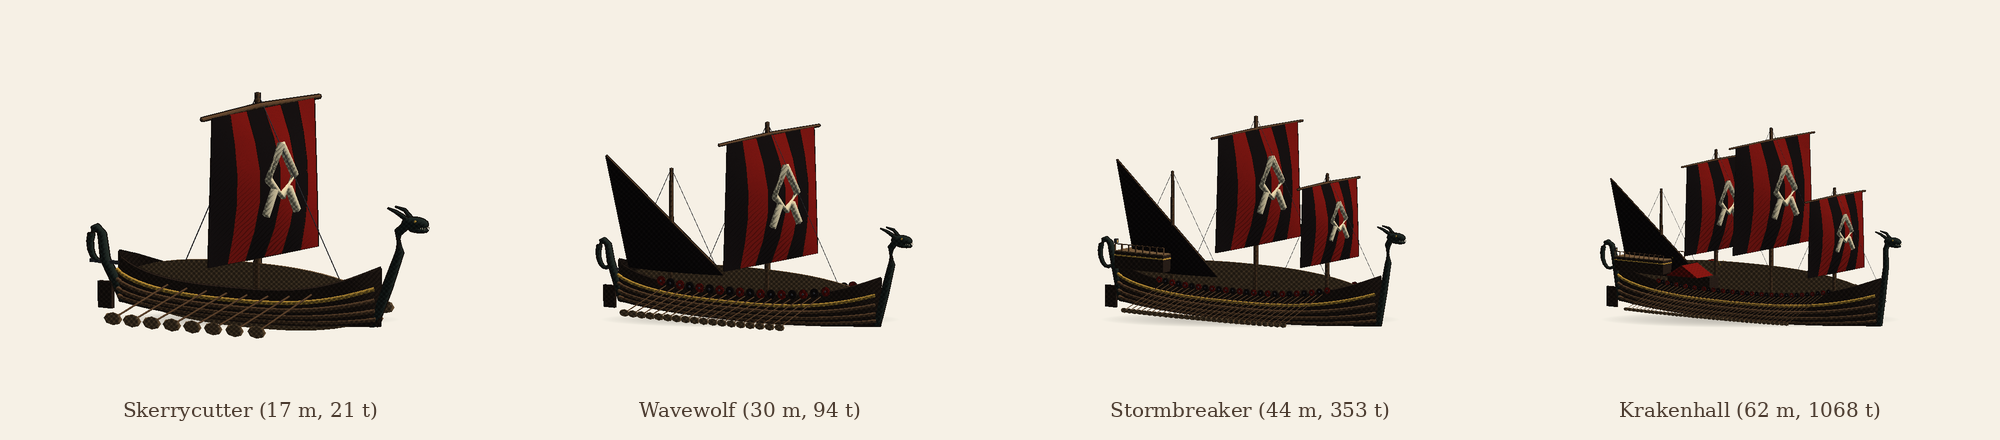
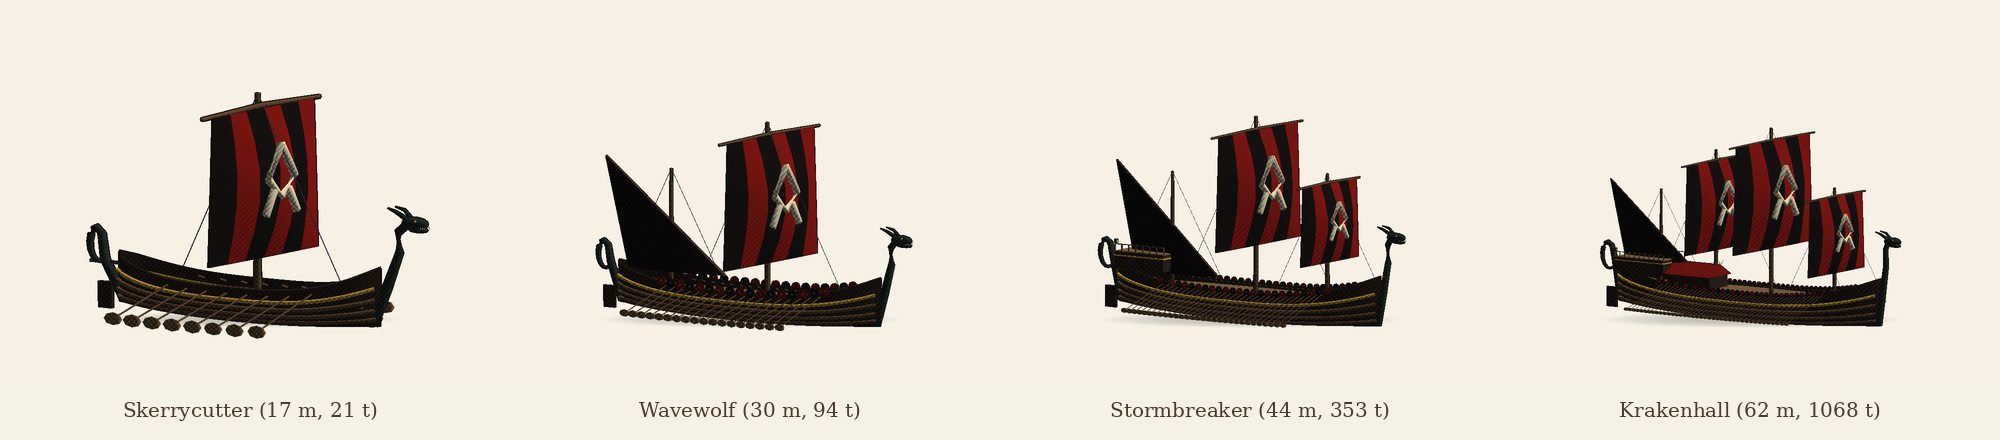
Buildings of the north, and a buildings sheet (docs/buildings.png)
Longhouses with bowed walls and turf roofs, a 48 m great hall with shingles,
crossed dragon-head gables and gilded door posts, a stone-walled boathouse,
a storehouse on stilts, a watchtower with a signal basket, a palisade of
sharpened stakes, a jetty on piles and a small stone church for the
monasteries, all at real sizes.

Also fixes the ships' deck and deck-hall roof, which were extruded the wrong
way round (Extrude lays its outline in the z-y plane).

Claude-Session: https://claude.ai/code/session_01SCdejJ1UF8RUxAkkFhZXGU

diff --git a/OdinsCoin/Assets/Scripts/World/Buildings.cs b/OdinsCoin/Assets/Scripts/World/Buildings.cs
@@ -1,0 +1,219 @@
+using UnityEngine;
+
+namespace OdinsCoin
+{
+    /// <summary>The kinds of building a place is made of.</summary>
+    public enum BuildingKind { Longhouse, GreatHall, Boathouse, Storehouse, Watchtower, Palisade, Jetty, Church }
+
+    /// <summary>The colours of the north's buildings: tarred timber, turf and shingle roofs, carved gables.</summary>
+    public class BuildingLook
+    {
+        public Color wall = new Color(0.36f, 0.25f, 0.17f);
+        public Color timber = new Color(0.25f, 0.17f, 0.11f);
+        public Color turf = new Color(0.38f, 0.48f, 0.25f);
+        public Color shingle = new Color(0.3f, 0.2f, 0.15f);
+        public Color stone = new Color(0.5f, 0.5f, 0.48f);
+        public Color door = new Color(0.55f, 0.18f, 0.1f);
+        public Color gold = new Color(0.85f, 0.65f, 0.25f);
+        public Color plaster = new Color(0.85f, 0.82f, 0.74f);
+    }
+
+    /// <summary>
+    /// (Profiles are drawn as x across, y up and extruded along z: <see cref="MeshData.Extrude"/> lays its outline in
+    /// the z–y plane, so each is turned a quarter round.)
+    /// Builds the north's buildings in the storybook style, as plain mesh data (one joint, "Building"; x across,
+    /// z along, y up, ground at 0): longhouses with bowed walls and turf roofs, a jarl's great hall with dragon
+    /// gables, boathouses, storehouses on stilts, watchtowers, palisades, jetties, and a little stone church for
+    /// the monasteries. Sizes are real (a longhouse is ~25 m, a great hall ~50 m).
+    /// </summary>
+    public static class Buildings
+    {
+        public const string Joint = "Building";
+
+        public static VikingModel Build(BuildingKind kind, BuildingLook look, int seed = 0)
+        {
+            var m = new VikingModel();
+            m.AddJoint(Joint, null, Vector3.zero);
+            switch (kind)
+            {
+                case BuildingKind.Longhouse: Longhouse(m, look, 24f, 6.5f, false); break;
+                case BuildingKind.GreatHall: Longhouse(m, look, 48f, 11f, true); break;
+                case BuildingKind.Boathouse: Boathouse(m, look); break;
+                case BuildingKind.Storehouse: Storehouse(m, look); break;
+                case BuildingKind.Watchtower: Watchtower(m, look); break;
+                case BuildingKind.Palisade: Palisade(m, look, 20f, seed); break;
+                case BuildingKind.Jetty: Jetty(m, look, 40f); break;
+                case BuildingKind.Church: Church(m, look); break;
+            }
+            m.AddOutlines(0.06f, new Color(0.08f, 0.06f, 0.05f));
+            return m;
+        }
+
+        /// <summary>How far a building reaches (half-size x, height, half-size z), for laying out a place.</summary>
+        public static Vector3 Footprint(BuildingKind kind)
+        {
+            switch (kind)
+            {
+                case BuildingKind.Longhouse: return new Vector3(4f, 7f, 13f);
+                case BuildingKind.GreatHall: return new Vector3(6.5f, 12f, 25f);
+                case BuildingKind.Boathouse: return new Vector3(4.5f, 6f, 11f);
+                case BuildingKind.Storehouse: return new Vector3(2.5f, 5.5f, 2.5f);
+                case BuildingKind.Watchtower: return new Vector3(2.5f, 14f, 2.5f);
+                case BuildingKind.Palisade: return new Vector3(1f, 4f, 10f);
+                case BuildingKind.Jetty: return new Vector3(2.5f, 1.5f, 20f);
+                default: return new Vector3(4f, 10f, 7f);
+            }
+        }
+
+        /// <summary>
+        /// A longhouse: walls bowed out amidships like a boat's sides, a steep roof of turf (or shingle, on a hall)
+        /// that nearly reaches the ground, a door at each end; the great hall gets crossed dragon heads on its gables.
+        /// </summary>
+        static void Longhouse(VikingModel m, BuildingLook look, float length, float width, bool hall)
+        {
+            const int n = 12;
+            float wallH = hall ? 3.4f : 2.2f, roofH = width * (hall ? 0.75f : 0.65f);
+            // Bowed walls: a lathe-like ring of posts, joined into two curved wall sheets.
+            foreach (float side in new[] { -1f, 1f })
+            {
+                var grid = new Vector3[n + 1, 2];
+                for (int i = 0; i <= n; i++)
+                {
+                    float t = i / (float)n * 2f - 1f;
+                    float x = side * width / 2f * (1f - 0.12f * t * t);
+                    grid[i, 0] = new Vector3(x, 0f, t * length / 2f);
+                    grid[i, 1] = new Vector3(x, wallH, t * length / 2f);
+                }
+                m.Add(Joint, look.wall, CharacterKit.Sheet(grid, new Vector3(side, 0f, 0f), 0.25f), true, SurfaceKind.Wood);
+                // Outer posts leaning in against the walls.
+                for (int i = 1; i < n; i += 2)
+                {
+                    float t = i / (float)n * 2f - 1f;
+                    float x = side * width / 2f * (1f - 0.12f * t * t);
+                    m.Add(Joint, look.timber, MeshData.Tube(new[] { new Vector3(x + side * 0.6f, 0f, t * length / 2f), new Vector3(x + side * 0.1f, wallH * 0.9f, t * length / 2f) }, new[] { 0.14f, 0.11f }, 5), false, SurfaceKind.Wood);
+                }
+            }
+            // Gable ends.
+            foreach (float end in new[] { -1f, 1f })
+            {
+                var gable = new[] { new Vector2(-width / 2f * 0.88f, 0f), new Vector2(width / 2f * 0.88f, 0f), new Vector2(width / 2f * 0.88f, wallH), new Vector2(0f, wallH + roofH), new Vector2(-width / 2f * 0.88f, wallH) };
+                m.Add(Joint, look.wall, MeshData.Extrude(gable, 0.25f).Transformed(new Vector3(0f, 0f, end * length / 2f), Quaternion.Euler(0f, 90f, 0f), Vector3.one), true, SurfaceKind.Wood);
+                m.Add(Joint, look.door, MeshData.Box(new Vector3(0f, 1.1f, end * (length / 2f + 0.15f)), new Vector3(1.2f, 2.2f, 0.12f)), false, SurfaceKind.Wood);
+            }
+            // The roof: two curved slopes hanging past the walls, ridge a little saddle-backed (lower in the middle).
+            var roofColour = hall ? look.shingle : look.turf;
+            foreach (float side in new[] { -1f, 1f })
+            {
+                var grid = new Vector3[n + 1, 2];
+                for (int i = 0; i <= n; i++)
+                {
+                    float t = i / (float)n * 2f - 1f;
+                    float z = t * (length / 2f + 0.8f);
+                    float ridge = wallH + roofH - 0.4f * (1f - t * t) * (hall ? 1.5f : 1f);
+                    grid[i, 0] = new Vector3(0f, ridge, z);
+                    grid[i, 1] = new Vector3(side * (width / 2f + 1f), wallH - 0.8f, z);
+                }
+                m.Add(Joint, roofColour, CharacterKit.Sheet(grid, new Vector3(side, 1f, 0f), 0.35f), true, hall ? SurfaceKind.Wood : SurfaceKind.Fur);
+            }
+            // A smoke hole's little hood on the ridge.
+            m.Add(Joint, look.timber, MeshData.Box(new Vector3(0f, wallH + roofH - 0.1f, length * 0.12f), new Vector3(1f, 0.6f, 1.2f)), true, SurfaceKind.Wood);
+            if (!hall) return;
+            // Crossed dragon heads on the gables, gilded.
+            foreach (float end in new[] { -1f, 1f })
+                foreach (float side in new[] { -1f, 1f })
+                {
+                    var from = new Vector3(0f, wallH + roofH - 0.2f, end * (length / 2f + 0.8f));
+                    var to = from + new Vector3(side * 1.4f, 2.2f, end * 0.6f);
+                    m.Add(Joint, look.timber, MeshData.Tube(new[] { from, to, to + new Vector3(side * 0.9f, 0.3f, end * 0.2f) }, new[] { 0.22f, 0.16f, 0.08f }, 6), true, SurfaceKind.Wood);
+                    m.Add(Joint, look.gold, MeshData.Ellipsoid(to + new Vector3(side * 0.9f, 0.3f, end * 0.2f), new Vector3(0.3f, 0.25f, 0.45f), 8, 5), false, SurfaceKind.Metal);
+                }
+            // Carved door posts with a gold band.
+            foreach (float end in new[] { -1f, 1f })
+                foreach (float side in new[] { -1f, 1f })
+                    m.Add(Joint, look.gold, MeshData.Box(new Vector3(side * 0.9f, 1.4f, end * (length / 2f + 0.2f)), new Vector3(0.2f, 2.8f, 0.15f)), false, SurfaceKind.Metal);
+        }
+
+        /// <summary>A boathouse (naust) at the water's edge: low stone side walls, a steep roof, open to the sea.</summary>
+        static void Boathouse(VikingModel m, BuildingLook look)
+        {
+            float len = 22f, w = 9f;
+            foreach (float side in new[] { -1f, 1f })
+                m.Add(Joint, look.stone, MeshData.Box(new Vector3(side * w / 2f, 0.7f, 0f), new Vector3(1.2f, 1.4f, len)), true, SurfaceKind.Plain);
+            var back = new[] { new Vector2(-w / 2f, 0f), new Vector2(w / 2f, 0f), new Vector2(w / 2f, 1.4f), new Vector2(0f, 5.8f), new Vector2(-w / 2f, 1.4f) };
+            m.Add(Joint, look.wall, MeshData.Extrude(back, 0.3f).Transformed(new Vector3(0f, 0f, -len / 2f), Quaternion.Euler(0f, 90f, 0f), Vector3.one), true, SurfaceKind.Wood);
+            foreach (float side in new[] { -1f, 1f })
+            {
+                var grid = new Vector3[2, 2] { { new Vector3(0f, 5.8f, -len / 2f), new Vector3(side * (w / 2f + 0.8f), 1.1f, -len / 2f) }, { new Vector3(0f, 5.8f, len / 2f), new Vector3(side * (w / 2f + 0.8f), 1.1f, len / 2f) } };
+                m.Add(Joint, look.turf, CharacterKit.Sheet(grid, new Vector3(side, 1f, 0f), 0.3f), true, SurfaceKind.Fur);
+            }
+        }
+
+        /// <summary>A storehouse (stabbur) up on posts with flat stones on top so mice can't climb in.</summary>
+        static void Storehouse(VikingModel m, BuildingLook look)
+        {
+            foreach (float x in new[] { -1.4f, 1.4f })
+                foreach (float z in new[] { -1.4f, 1.4f })
+                {
+                    m.Add(Joint, look.timber, MeshData.Box(new Vector3(x, 0.5f, z), new Vector3(0.3f, 1f, 0.3f)), true, SurfaceKind.Wood);
+                    m.Add(Joint, look.stone, MeshData.Box(new Vector3(x, 1.05f, z), new Vector3(0.6f, 0.12f, 0.6f)), false);
+                }
+            m.Add(Joint, look.wall, MeshData.Box(new Vector3(0f, 2.3f, 0f), new Vector3(4f, 2.4f, 4f)), true, SurfaceKind.Wood);
+            var roof = new[] { new Vector2(-2.7f, 0f), new Vector2(2.7f, 0f), new Vector2(0f, 2.2f) };
+            m.Add(Joint, look.shingle, MeshData.Extrude(roof, 5f).Transformed(new Vector3(0f, 3.5f, 0f), Quaternion.Euler(0f, 90f, 0f), Vector3.one), true, SurfaceKind.Wood);
+            m.Add(Joint, look.door, MeshData.Box(new Vector3(0f, 2.1f, 2.05f), new Vector3(1f, 1.7f, 0.1f)), false, SurfaceKind.Wood);
+        }
+
+        /// <summary>A watchtower of four leaning legs, a platform with a rail, a little roof and a signal fire basket.</summary>
+        static void Watchtower(VikingModel m, BuildingLook look)
+        {
+            float top = 10f;
+            foreach (float x in new[] { -1f, 1f })
+                foreach (float z in new[] { -1f, 1f })
+                    m.Add(Joint, look.timber, MeshData.Tube(new[] { new Vector3(x * 2.4f, 0f, z * 2.4f), new Vector3(x * 1.4f, top + 2.2f, z * 1.4f) }, new[] { 0.22f, 0.16f }, 6), true, SurfaceKind.Wood);
+            m.Add(Joint, look.wall, MeshData.Box(new Vector3(0f, top, 0f), new Vector3(3.6f, 0.3f, 3.6f)), true, SurfaceKind.Wood);
+            foreach (float s in new[] { -1f, 1f })
+            {
+                m.Add(Joint, look.timber, MeshData.Box(new Vector3(s * 1.75f, top + 0.8f, 0f), new Vector3(0.12f, 0.12f, 3.6f)), false, SurfaceKind.Wood);
+                m.Add(Joint, look.timber, MeshData.Box(new Vector3(0f, top + 0.8f, s * 1.75f), new Vector3(3.6f, 0.12f, 0.12f)), false, SurfaceKind.Wood);
+            }
+            var roof = new[] { new Vector2(-2.3f, 0f), new Vector2(2.3f, 0f), new Vector2(0f, 1.6f) };
+            m.Add(Joint, look.shingle, MeshData.Extrude(roof, 4.2f).Transformed(new Vector3(0f, top + 2.2f, 0f), Quaternion.Euler(0f, 90f, 0f), Vector3.one), true, SurfaceKind.Wood);
+            m.Add(Joint, look.stone, MeshData.Lathe(new[] { new Vector2(0.5f, 0f), new Vector2(0.7f, 0.5f) }, 10).Transformed(new Vector3(1.1f, top + 0.15f, 1.1f), Quaternion.identity, Vector3.one), true);
+        }
+
+        /// <summary>A stretch of palisade: sharpened stakes of uneven height with a walkway behind.</summary>
+        static void Palisade(VikingModel m, BuildingLook look, float length, int seed)
+        {
+            var rng = new System.Random(seed + 17);
+            for (float z = -length / 2f; z <= length / 2f; z += 0.45f)
+            {
+                float h = 3.4f + (float)rng.NextDouble() * 0.5f;
+                m.Add(Joint, look.timber, MeshData.Tube(new[] { new Vector3(0f, 0f, z), new Vector3(0f, h, z), new Vector3(0f, h + 0.5f, z) }, new[] { 0.22f, 0.22f, 0.02f }, 6), true, SurfaceKind.Wood);
+            }
+            m.Add(Joint, look.wall, MeshData.Box(new Vector3(-1f, 2f, 0f), new Vector3(1.6f, 0.2f, length)), false, SurfaceKind.Wood);
+        }
+
+        /// <summary>A jetty on piles running out from the shore (+z), with mooring posts.</summary>
+        static void Jetty(VikingModel m, BuildingLook look, float length)
+        {
+            m.Add(Joint, look.wall, MeshData.Box(new Vector3(0f, 1.2f, length / 2f), new Vector3(4f, 0.3f, length)), true, SurfaceKind.Wood);
+            for (float z = 2f; z <= length; z += 4f)
+                foreach (float x in new[] { -1.8f, 1.8f })
+                {
+                    m.Add(Joint, look.timber, MeshData.Tube(new[] { new Vector3(x, -4f, z), new Vector3(x, 1.8f, z) }, new[] { 0.2f, 0.18f }, 6), true, SurfaceKind.Wood);
+                }
+        }
+
+        /// <summary>A small stone church with a bell gable: what the monasteries look like to a raider.</summary>
+        static void Church(VikingModel m, BuildingLook look)
+        {
+            m.Add(Joint, look.plaster, MeshData.Box(new Vector3(0f, 2.5f, 0f), new Vector3(7f, 5f, 12f)), true, SurfaceKind.Plain);
+            var roof = new[] { new Vector2(-4.2f, 0f), new Vector2(4.2f, 0f), new Vector2(0f, 3.4f) };
+            m.Add(Joint, look.shingle, MeshData.Extrude(roof, 12.6f).Transformed(new Vector3(0f, 5f, 0f), Quaternion.Euler(0f, 90f, 0f), Vector3.one), true, SurfaceKind.Wood);
+            m.Add(Joint, look.plaster, MeshData.Box(new Vector3(0f, 7f, 6.3f), new Vector3(2.2f, 4f, 0.8f)), true, SurfaceKind.Plain);
+            m.Add(Joint, look.gold, MeshData.Box(new Vector3(0f, 9.6f, 6.3f), new Vector3(0.18f, 1.4f, 0.18f)), false, SurfaceKind.Metal);
+            m.Add(Joint, look.gold, MeshData.Box(new Vector3(0f, 9.9f, 6.3f), new Vector3(0.8f, 0.18f, 0.18f)), false, SurfaceKind.Metal);
+            m.Add(Joint, look.door, MeshData.Box(new Vector3(0f, 1.3f, 6.05f), new Vector3(1.4f, 2.6f, 0.12f)), false, SurfaceKind.Wood);
+        }
+    }
+}

diff --git a/OdinsCoin/Assets/Scripts/Ship/ShipModel.cs b/OdinsCoin/Assets/Scripts/Ship/ShipModel.cs
@@ -95,12 +95,16 @@ namespace OdinsCoin
                     }
                     m.Add(Joint, level > 0.8f ? look.gold : look.strake, MeshData.Tube(path, radii, 5), false, SurfaceKind.Wood);
                 }
-            // The deck: planks a little below the rail.
-            var deck = new System.Collections.Generic.List<Vector2>();
-            for (int i = 0; i <= 20; i++) { float t = Mathf.Lerp(-0.92f, 0.92f, i / 20f); float k, g, hb; Section(d, t, out k, out g, out hb); deck.Add(new Vector2(hb * 0.92f, t * d.length / 2f)); }
-            for (int i = 20; i >= 0; i--) { float t = Mathf.Lerp(-0.92f, 0.92f, i / 20f); float k, g, hb; Section(d, t, out k, out g, out hb); deck.Add(new Vector2(-hb * 0.92f, t * d.length / 2f)); }
-            var deckMesh = MeshData.Extrude(deck.ToArray(), 0.15f).Transformed(new Vector3(0f, d.freeboard - 0.6f, 0f), Quaternion.Euler(90f, 0f, 0f), Vector3.one);
-            m.Add(Joint, look.deck, deckMesh, false, SurfaceKind.Wood);
+            // The deck: planks a little below the rail, following the hull's shape.
+            var deck = new Vector3[21, 2];
+            for (int i = 0; i <= 20; i++)
+            {
+                float t = Mathf.Lerp(-0.92f, 0.92f, i / 20f), k, g, hb;
+                Section(d, t, out k, out g, out hb);
+                deck[i, 0] = new Vector3(-hb * 0.92f, d.freeboard - 0.6f, t * d.length / 2f);
+                deck[i, 1] = new Vector3(hb * 0.92f, d.freeboard - 0.6f, t * d.length / 2f);
+            }
+            m.Add(Joint, look.deck, CharacterKit.Sheet(deck, Vector3.up, 0.15f), false, SurfaceKind.Wood);
         }
 
         static void Posts(VikingModel m, ShipDesign d, ShipLook look)
@@ -297,7 +301,7 @@ namespace OdinsCoin
             float y = d.freeboard - 0.5f, len = d.length * 0.16f, w = d.beam * 0.5f, z = -d.length * 0.2f;
             m.Add(Joint, look.hull, MeshData.Box(new Vector3(0f, y + 1.2f, z), new Vector3(w, 2.4f, len)), true, SurfaceKind.Wood);
             var roof = new[] { new Vector2(-w * 0.62f, 0f), new Vector2(w * 0.62f, 0f), new Vector2(0f, 2.2f) };
-            m.Add(Joint, look.sail, MeshData.Extrude(roof, len * 1.08f).Transformed(new Vector3(0f, y + 2.4f, z), Quaternion.identity, Vector3.one), true, SurfaceKind.Wood);
+            m.Add(Joint, look.sail, MeshData.Extrude(roof, len * 1.08f).Transformed(new Vector3(0f, y + 2.4f, z), Quaternion.Euler(0f, 90f, 0f), Vector3.one), true, SurfaceKind.Wood);
             foreach (float end in new[] { -1f, 1f })
                 foreach (float side in new[] { -1f, 1f })
                     m.Add(Joint, look.gold, MeshData.Tube(new[] { new Vector3(0f, y + 4.5f, z + end * len * 0.54f), new Vector3(side * 0.8f, y + 5.4f, z + end * len * 0.56f) }, new[] { 0.1f, 0.04f }, 5), false, SurfaceKind.Wood);

diff --git a/tools/preview/HeroPreview.cs b/tools/preview/HeroPreview.cs
@@ -233,6 +233,7 @@ public static class HeroPreview
         if (args.Length > 10) AttackSheet(args[9], args[10]);
         if (args.Length > 11) FootstepTrace(args[11]);
         if (args.Length > 13) ShipSheet(args[12], args[13]);
+        if (args.Length > 15) BuildingSheet(args[14], args[15]);
         Directory.CreateDirectory(args[2]);
         ExportObj(HeroModel.Build(raider), Path.Combine(args[2], "raider.obj"));
         ExportObj(HeroModel.BuildWeapon(raider), Path.Combine(args[2], "two-hand-axe.obj"));
@@ -398,6 +399,35 @@ public static class HeroPreview
             }
         }
         File.WriteAllLines(labelPath, labels.ToArray());
+    }
+
+    /// <summary>The buildings side by side (docs/buildings.png), each framed to fit.</summary>
+    static void BuildingSheet(string rgbaPath, string labelPath)
+    {
+        const int cellW = 700, cellH = 620;
+        var kinds = new[] { BuildingKind.GreatHall, BuildingKind.Longhouse, BuildingKind.Boathouse, BuildingKind.Storehouse, BuildingKind.Watchtower, BuildingKind.Palisade, BuildingKind.Jetty, BuildingKind.Church };
+        var names = new[] { "Great hall", "Longhouse", "Boathouse", "Storehouse", "Watchtower", "Palisade", "Jetty", "Church" };
+        int w = cellW * kinds.Length, h = cellH;
+        var img = new float[w * h * 3];
+        for (int i = 0; i < w * h; i++) { img[i * 3] = Paper.r; img[i * 3 + 1] = Paper.g; img[i * 3 + 2] = Paper.b; }
+        for (int k = 0; k < kinds.Length; k++)
+        {
+            var f = Buildings.Footprint(kinds[k]);
+            float size = Mathf.Max(f.y * 1.25f, Mathf.Max(f.x, f.z) * 1.6f);
+            float zoom = 0.84f * 2.45f / size;
+            var pose = new Pose();
+            pose.pos[Buildings.Joint] = new Vector3(0f, kinds[k] == BuildingKind.Jetty ? 4f : 0f, 0f);
+            Render(img, w, h, k * cellW, cellW, cellH, new Shot { model = Buildings.Build(kinds[k], new BuildingLook()), pose = pose, yaw = 215f, zoom = zoom });
+        }
+        using (var fs = new BinaryWriter(File.Create(rgbaPath)))
+        {
+            fs.Write(w); fs.Write(h);
+            for (int i = 0; i < w * h; i++)
+            {
+                fs.Write((byte)(Mathf.Clamp01(img[i * 3]) * 255)); fs.Write((byte)(Mathf.Clamp01(img[i * 3 + 1]) * 255)); fs.Write((byte)(Mathf.Clamp01(img[i * 3 + 2]) * 255)); fs.Write((byte)255);
+            }
+        }
+        File.WriteAllLines(labelPath, names);
     }
 
     static string F(float v) { return v.ToString("0.###", System.Globalization.CultureInfo.InvariantCulture); }

diff --git a/OdinsCoin/WORLD.md b/OdinsCoin/WORLD.md
@@ -24,6 +24,16 @@ med ror, seil i vinden og årer.
   Jorvik, Dublin, Kirkwall, Reykjavík, Lundenwic, Novgorod med flere), med havn, brygger og hus.
 - [ ] **5. Hytter og hus:** langhus, naust, stabbur, gammer, vakttårn, palisader og brygger, tegnet i samme
   stil som figurene.
+  - Ferdig (`World/Buildings.cs`, se [docs/buildings.png](docs/buildings.png)), i ekte størrelser:
+    - **Langhus:** buede vegger og torvtak.
+    - **Jarlens storhall:** 48 m, med spontak, kryssede dragehoder på gavlene og forgylte dørstolper.
+    - **Naust:** steinvegger og åpen mot sjøen.
+    - **Stabbur:** på stolper med steinheller.
+    - **Vakttårn:** med vardekurv.
+    - **Palisade:** med spisse stokker.
+    - **Brygge:** på påler.
+    - **Kirke:** liten, i stein, med klokkegavl, til klostrene.
+  - Gjenstår: plassere dem ved de ekte stedene.
 - [ ] **6. Nye skip:** egne, oppdiktede skipsklasser som er større enn langskip, med flere master, høy
   akterkastell, dragehoder og tunge årerekker. Hvert skip er en design (lengde, bredde, dypgang, vekt, master,
   seil, årer, ror).
